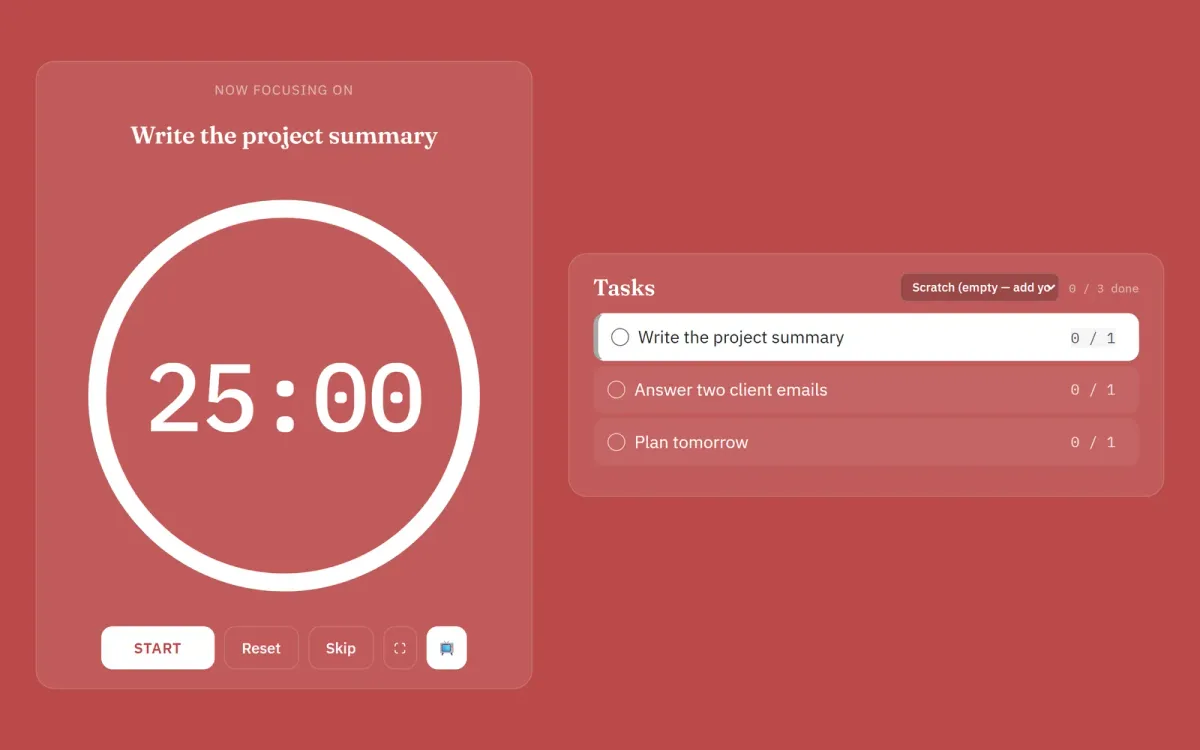
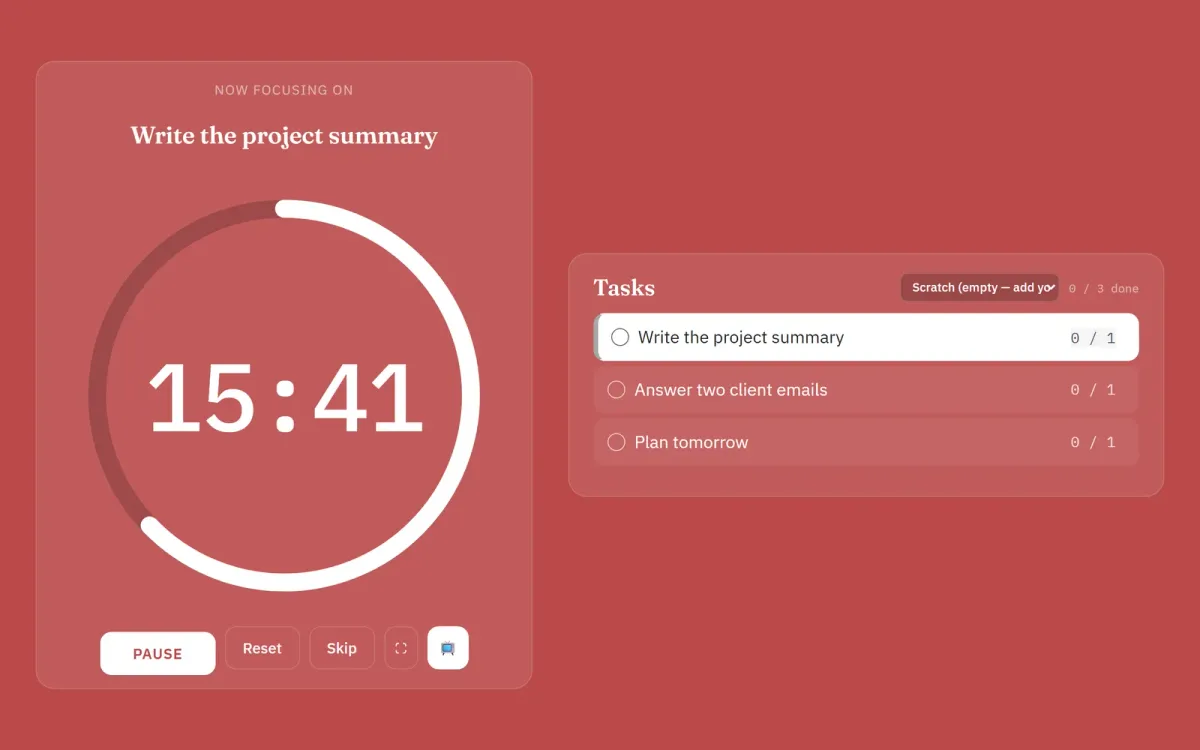
Rolling 3: real app captures + 7 new case studies (#36)
* Rolling 3: start

* Captures: Focus Desk's cast view with the timer running; Neuro's Work mode without Wikipedia's CSS leaking, the page check scrolled cleanly; alt text follows the new popup

* Focus Desk alt text: the time left in round minutes, so a re-shoot a second off stays true

* Case studies: Reddy.Mail, Cufflink, RAL Contrast Checker, Archive Trawler, Dekost, password.reddy.world and NIA

- pictures from inside each app: npm run shots for Reddy.Mail's demo, the RAL checker, Archive
  Trawler's search form and the password wizard; Cufflink's own window from its public repo;
  Dekost's chart, Ryan's screenshot (signed in)
- NIA: text only, no picture, stack or link (reddy.world#126); check-software lets a text-only
  case study pass

---------

diff --git a/src/content/software/reddy-mail.md b/src/content/software/reddy-mail.md
@@ -1,0 +1,53 @@
+---
+title: Reddy.Mail
+summary: "A private communications workspace: email, calendars and messaging channels in one place, with a public demo on a made-up studio's sample data."
+dek: Your conversations, with a little more context.
+eyebrow: Web app · mail.reddy.world
+kind: app
+category: CommunicationApplication
+platform: Web browser
+year: 2026
+status: Private workspace; the demo is open to everyone
+live: https://mail.reddy.world/demo/
+cta: Try the demo
+stack: [Google sign-in, Gemini API, WhatsApp Cloud API]
+audience: People who juggle several inboxes, calendars and chats
+maker: Reddy.World Enterprises
+role: "Concept, design and code: Ryan Reddy"
+order: 3
+updated: 2026-10-21
+screenshots:
+  - file: reddy-mail-cleanbox.webp
+    alt: "Reddy.Mail's demo on sample data: the Cleanbox with messages from three accounts on the left, and an opened message about poster proofs with a short summary, the action items found in it and the key date."
+    caption: "The Cleanbox in the demo: one list for every connected mailbox, and a message with its summary and action items. All of it is sample data."
+  - file: reddy-mail-socials.webp
+    alt: "The Socials & Berichten hub: Instagram, WhatsApp and Messenger messages in one list, an Instagram message from a bakery opened, and a suggested reply above the reply box."
+    caption: "Messages from WhatsApp, Instagram and Messenger in one list, with a suggested reply to edit or ignore."
+  - file: reddy-mail-my-day.webp
+    alt: "My Day: to-dos and calendar events in one list, filtered into bills to approve, replies owed, events to attend, dates to remember and personal to-dos, each with its due date."
+    caption: "My Day: the replies you owe, the bills to approve and the events to attend, from your mail and calendars."
+  - file: reddy-mail-publish.webp
+    alt: "Publish: posts written once for several channels, each marked as posted, waiting or scheduled, with tabs for posts, calendar, channels and stats."
+    caption: "Publish: write once, post to your channels now or at a set time."
+---
+
+Reddy.Mail brings connected email, calendars and messaging channels into one place, so you can focus on the conversation rather than where it happened. The workspace is private for now: only I can sign in. The [demo](https://mail.reddy.world/demo/) shows every screen on a made-up studio's sample data. It needs no sign-in, and nothing is sent or saved.
+
+## What you can do
+
+- Connect Gmail, Microsoft mail or an IMAP/SMTP mailbox through a setup wizard, and read them all in one Cleanbox.
+- Read WhatsApp, Instagram and Messenger messages in one list, next to your mail.
+- See your day in one place: the replies you owe, the bills to approve, the events to attend and the dates to remember.
+- See the calendars you chose in one view.
+- Write a post once and send it to Instagram, Facebook, a blog, Mastodon and the Fediverse, now or at a set time.
+- If you want, let Gemini summarise a message and prepare a draft for you to review.
+
+## The hard parts
+
+**Permission, step by step.** Signing in with Google only opens the app. Reading your mail and calendars needs a separate connection, with its own consent, for each account.
+
+**Private by design.** The workspace sits behind Google sign-in and a check on the server that you are its owner. The keys for each connection are encrypted before they are stored.
+
+**Honest about the edges.** WhatsApp comes in through the Cloud API, for a business number set up for it, and personal chats are not imported. The AI features are optional, and the site says plainly what goes to Google's Gemini API when you use them.
+
+**A demo that can't leak.** The demo runs entirely in your browser on invented people and messages, so anyone can try every screen without an account.

diff --git a/src/content/software/reddy-neuro.md b/src/content/software/reddy-neuro.md
@@ -18,7 +18,7 @@ audience: Readers who tire on busy, glaring pages
 maker: Reddy.World Enterprises
 role: "Concept, design and code: Ryan Reddy"
 order: 1
-updated: 2026-10-19
+updated: 2026-10-20
 screenshots:
   - file: neuro-overlay-after.webp
     pair: after
@@ -31,13 +31,13 @@ screenshots:
     alt: "The Wikipedia article on Atkinson Hyperlegible as Wikipedia shows it: black text on a white page with blue links, the contents on the left and the appearance settings on the right."
     caption: "The article as Wikipedia shows it, without NeuroOverlay."
   - file: neuro-overlay-work-mode.webp
-    alt: "NeuroOverlay's Work mode on the same article: the title, a dial with Gist, Key points, Structured (selected) and Full, the sections as short folded blocks, and a side column with next steps, the outline, tools (reading ruler, wait timers, read aloud) and the page score."
+    alt: "NeuroOverlay's Work mode on the same article: the title, a dial with Gist, Key points, Structured (selected) and Full, the sections as short folded blocks, and a side column with next steps, the outline and tools (reading ruler, wait timers)."
     caption: "Work mode, an early version: a quiet view of the page, with a dial for how much you see."
   - file: neuro-overlay-popup.webp
-    alt: "NeuroOverlay's popup on Wikipedia: on for en.wikipedia.org, a page score of 90 out of 100, sliders for Text (Comfortable), Colour (Dark), Clutter (fade 95%) and Focus, buttons for Work mode, Ruler and a wait timer, and the quick looks Calm, Night, Daylight and Dyslexia."
-    caption: "The popup: how much help you want, in four sliders."
+    alt: "NeuroOverlay's popup on Wikipedia: on for en.wikipedia.org, a dial for how much to show (Gist, Key points, Structured, Full) with Ruler and a wait timer, a page score of 90 out of 100, sliders for Text (Comfortable), Colour (Dark) and Clutter (fade 95%), and the quick looks Calm, Night, Daylight and Dyslexia."
+    caption: "The popup: how much to show, and how much help you want, in three sliders."
   - file: neuro-overlay-page-check.webp
-    alt: "The side panel's page check for the article: 90 out of 100 from its own checks, then five findings, from one long text block to lines of about 201 characters, each with a suggestion."
+    alt: "The side panel's page check for the article: 90 out of 100 from its own checks, how many of its COGA and W3C checks could run, then findings such as 7 paragraphs over 50 words and lines of about 208 characters, each with a suggestion and a link to the W3C pattern."
     caption: "The page check in the side panel: a quick look at how a page is built, not an official accessibility test."
 ---
 
@@ -47,7 +47,7 @@ I made it for people who tire quickly on glaring, cluttered pages, with ADHD in 
 
 ## What you can do
 
-- Set how much help you want with four sliders: Text, Colour, Clutter and Focus. Or pick a quick look: Calm, Night, Daylight or Dyslexia.
+- Set how much help you want with three sliders: Text, Colour and Clutter. Or pick a quick look: Calm, Night, Daylight or Dyslexia.
 - Choose the font (Atkinson Hyperlegible, Lexend Deca or OpenDyslexic), the line length, and the space between lines, letters and words.
 - Read in a soft dark theme such as Velvet Olive, or in a calm, paper-like light one.
 - Turn on a reading ruler, or set a wait timer of 30 seconds, 1 minute or 2 minutes.

diff --git a/src/content/software/password-reddy-world.md b/src/content/software/password-reddy-world.md
@@ -1,0 +1,43 @@
+---
+title: password.reddy.world
+summary: "A step-by-step plan for moving every password into one password manager, made for families. It never asks for a password, and the plan stays in your browser."
+dek: Every password in one safe home.
+eyebrow: Website · password.reddy.world
+kind: work
+year: 2026
+status: Live, free to use
+live: https://password.reddy.world
+cta: Make your plan
+audience: Households moving to one password manager
+maker: Reddy.World Enterprises
+role: "Concept, design and code: Ryan Reddy"
+order: 8
+updated: 2026-10-21
+screenshots:
+  - file: password-choose.webp
+    alt: "The first step, Start here: a table of password managers with what each is best for, the devices, where the data is kept, whether it's free and the paid plan. Bitwarden EU is selected and marked as recommended. On the right, 'Your plan so far' lists the nine steps."
+    caption: "Step one: choose a home for your passwords, with where each keeps your data."
+  - file: password-map.webp
+    alt: "The password map step: 'Where are passwords saved now?', with Chrome, Microsoft Edge, Firefox, Brave and Apple Passwords ticked, more browsers, password apps and other places folded away, and a note that the site never asks for password exports."
+    caption: "Where are your passwords now? Every browser and app ticked here becomes a place to move."
+  - file: password-way-in.webp
+    alt: "The 'Your way in' step: make sure you can always get back in. A passphrase written on paper, two-step login with its recovery code on the same paper, and how to log in on other devices, each with a guide and a box to tick."
+    caption: "Before anything moves: a way back in, on paper, at home."
+---
+
+password.reddy.world is a step-by-step plan for moving all your passwords into one password manager. It guides you, step by step, from choosing a manager to the final checks, and it is made for a household: the computers, phones and tablets everyone uses. [Make your plan at password.reddy.world](https://password.reddy.world).
+
+## What you can do
+
+- Compare password managers side by side: what each is best for, on which devices, where your data is kept, and what it costs. It recommends Bitwarden in its EU region, to keep your data under the GDPR.
+- Tick the devices you have used, and the browsers, apps and files where passwords are saved now. Each becomes a place to move.
+- Set up your way in before you move anything: a passphrase, two-step login and its recovery code, written on paper and kept at home.
+- Follow the plan to set up your computer and your phone, choose a backup, and finish with the final checks.
+
+## The hard parts
+
+**It never touches a password.** The site never asks for your passwords, your exports or your recovery codes. Exports are readable text, so they go straight into your chosen manager, not through this site.
+
+**A plan that stays with you.** Your plan is saved in your own browser. Open the page again in the same browser and you carry on where you left off.
+
+**The way back in comes first.** Bitwarden can't recover a forgotten master password, so the plan asks for your way in before any password moves.

diff --git a/src/content/software/cufflink.md b/src/content/software/cufflink.md
@@ -1,0 +1,47 @@
+---
+title: Cufflink
+summary: "A Windows app that reads the text you select aloud, in any program, and lights up each word as it goes. Fully offline: no account, nothing leaves your PC."
+dek: Select anything. Press a key. Hear it.
+eyebrow: Windows app · cufflink.reddy.world
+kind: app
+category: UtilitiesApplication
+platform: Windows 10 and 11
+year: 2026
+status: Free and open source
+live: https://cufflink.reddy.world
+cta: How to install
+repo: https://github.com/Ryan-Reddy/cufflink
+stack: [Python, Kokoro-82M, ONNX Runtime]
+audience: Anyone who would rather listen than read, or who proofreads by ear
+maker: Reddy.World Enterprises
+role: "Concept, design and code: Ryan Reddy"
+order: 4
+updated: 2026-10-21
+screenshots:
+  - file: cufflink-reading.webp
+    alt: "Cufflink's reading window: a sentence about reading a draft aloud, with the word 'repeated' lit, the words already read bright and the rest dim, and below it the speed (1.0×), repeat, pause, back, volume, select and help controls."
+    caption: "The reading window mid-sentence: the current word lit, the words already read bright, the rest dim."
+  - file: cufflink-voices.webp
+    alt: "Cufflink's voices window: a profile, two voices blended at 70% Emma and 30% Nicole, the speed at 1.30×, the sound read by The Informant, and dials for narrow, transistor, squash, tape, spy, fade, room and hiss."
+    caption: "The voices window: blend two speakers, then shape the sound with the dials."
+---
+
+Cufflink reads the text you select aloud, in any program on Windows, and lights up each word as it goes. Select some text in a browser, an email or a document, press Ctrl + Alt + M, and a small window appears straight away with the whole selection in it. It's free and open source. [Install it from cufflink.reddy.world](https://cufflink.reddy.world).
+
+These pictures are Cufflink's own window, from its [code on GitHub](https://github.com/Ryan-Reddy/cufflink).
+
+## What you can do
+
+- Pause by clicking the text. Change the speed and the volume, or let it read the same text again until you stop it.
+- Turn on select mode, and everything you select is read straight away.
+- Go back to the window you were reading from with one key.
+- Pick who reads to you: five voices, each with its own character. Or blend two speakers and shape the sound with eight dials, from tape flutter to hiss.
+- Let your own programs speak through it: while it runs, any program on the same computer can send it text to read.
+
+## The hard parts
+
+**The window comes first.** The reading window appears the moment you press the key, with the whole selection in it, rather than waiting for the first sound.
+
+**Speech on your own computer.** The voices are made by a small speech model on your PC, not by a cloud service. The installer downloads the model once and checks each file before keeping it. After that, reading aloud works with the internet switched off.
+
+**Out of the way when you don't need it.** The text you select is held in memory only while it is read, then forgotten. Select mode is the only part that listens to the mouse, and only while it is on.

diff --git a/src/content/software/ral-contrast-checker.md b/src/content/software/ral-contrast-checker.md
@@ -1,0 +1,43 @@
+---
+title: RAL Contrast Checker
+summary: "Pick two RAL colours and see them side by side, scored for physical accessibility (light reflectance) and for screens (WCAG contrast)."
+dek: Two RAL colours, scored for contrast.
+eyebrow: Web tool · reddy.world/ral-contrast-checker
+kind: app
+category: DesignApplication
+platform: Web browser
+year: 2023
+status: Live, free to use
+live: https://reddy.world/ral-contrast-checker
+cta: Open the checker
+stack: [JavaScript, Web Components]
+audience: Architects, sign makers and designers choosing colours for a building or an object
+maker: Reddy.World Enterprises
+role: "A 2023 team assignment at Hogeschool Utrecht for Stichting Accessibility; the checker as it runs today: Ryan Reddy"
+order: 5
+updated: 2026-10-21
+screenshots:
+  - file: ral-pass.webp
+    alt: "The RAL Contrast Checker with RAL 1023 Traffic yellow on RAL 9005 Jet black: a yellow block on a black field, LRV 4 and LRV 54, a difference of 50 that passes ΔLRV 30, and a WCAG contrast of 13.47 to 1."
+    caption: "Traffic yellow on jet black: a light reflectance difference of 50, well over the pass mark of 30."
+  - file: ral-fail.webp
+    alt: "The checker with RAL 7004 Signal grey on RAL 7035 Light grey: a grey block on a light grey field, LRV 57 and LRV 34, a difference of 23 marked as failing ΔLRV 30, and a WCAG contrast of 2.01 to 1, both badges in red."
+    caption: "Signal grey on light grey: a difference of 23 fails, and the screen contrast fails too."
+---
+
+The RAL Contrast Checker shows two RAL colours side by side and scores them for accessibility. Pick a background and an object or text colour, and you see the pair at once, with two numbers: the difference in light reflectance, for the real world, and the WCAG contrast ratio, for screens. [Open the checker](https://reddy.world/ral-contrast-checker).
+
+It started as a team assignment for Stichting Accessibility by students of Hogeschool Utrecht in 2023, and the team is credited on the checker's page. The colour data comes from that project.
+
+## What you can do
+
+- Choose from 180 RAL Classic colours, by number and name.
+- See the light reflectance value (LRV) of each colour and the difference between them, with a pass or fail against a difference of 30.
+- See the WCAG contrast ratio of the same pair, for when the colours are used on a screen.
+- Swap background and object with one button.
+
+## The hard parts
+
+**Two kinds of contrast.** On a screen, contrast is about light the screen gives off. On a wall, a door or a sign, it is about light the surface reflects. The checker shows both, and says which one applies where: a difference of 30 light reflectance points is the pass mark for physical accessibility, and the WCAG ratio is for on-screen use.
+
+**One checker, used everywhere.** It is a single web component with no dependencies and all 180 colours built in. Any page can load it with one line, and the page on reddy.world loads it live from that library.

diff --git a/src/content/software/dekost.md b/src/content/software/dekost.md
@@ -1,0 +1,40 @@
+---
+title: Dekost
+summary: "What does a gram of protein actually cost? Dekost ranks supermarket foods by protein per euro, on the Dutch RIVM NEVO and USDA food databases."
+dek: Supermarket food, ranked by protein per euro.
+eyebrow: Web app · dekost.eu
+kind: app
+category: HealthApplication
+platform: Web browser
+year: 2026
+status: Beta; you need an account to see it
+live: https://www.dekost.eu/
+cta: Open Dekost
+audience: People who eat for protein and shop on a budget
+maker: Reddy.World Enterprises
+role: "Concept, design and code: Ryan Reddy"
+order: 7
+updated: 2026-10-21
+screenshots:
+  - file: dekost-chart.webp
+    alt: "Dekost's chart: foods plotted by protein density against price per gram of protein, a table of foods on the left, and on the right the nutrition facts, the calorie split, the fullness factor and the supermarket price of tinned mackerel in oil, with its rankings below."
+    caption: "The chart, signed in: every food by protein density and price per gram of protein, with the facts of the one you pick. A screenshot Ryan took himself."
+---
+
+What does a gram of protein actually cost? Dekost answers that for the food in Dutch supermarkets. It ranks foods by protein per euro, and lets you filter and compare them in a table and on a chart. The nutrition data comes from the Dutch RIVM NEVO database (version 2025/9.0) and from USDA FoodData Central.
+
+Dekost is in beta, and you see it after signing in: with Google, Facebook, Microsoft or an email address. That's why this page shows a single picture, taken by me inside the app.
+
+## What you can do
+
+- Filter by kind of food: meat, fish, eggs and dairy, legumes, meat substitutes, seeds, nuts, vegetables, grains, mushrooms and fruit.
+- Plot the foods on a chart, by protein density against the price of a gram of protein.
+- Pick a food to see its nutrition facts, how its calories split between carbohydrate, fat and protein, how filling it is, and where to buy it for what price.
+- See where a food ranks among all the others.
+- Sign in to keep your profile and your food diaries in step across devices.
+
+## The hard parts
+
+**Price meets nutrition.** Dekost puts a supermarket price next to the nutrition data of each food, so the cost of a gram of protein can be compared across all of them.
+
+**Two databases, credited.** The nutrition data comes from the Dutch NEVO tables of the RIVM and from USDA FoodData Central, and both are credited at the foot of the page.

diff --git a/src/content/software/archive-trawler.md b/src/content/software/archive-trawler.md
@@ -1,0 +1,38 @@
+---
+title: Archive Trawler
+summary: "Find your ancestors by searching many archives at once, by name: more than 200 Dutch archives through OpenArchieven.nl, the UK National Archives and Europeana."
+dek: One search across many archives.
+eyebrow: Web app · archivetrawler.reddy.world
+kind: app
+category: ReferenceApplication
+platform: Web browser
+year: 2022
+status: Live; searching needs a free account
+live: https://archivetrawler.reddy.world
+cta: Open Archive Trawler
+stack: [Java]
+audience: People looking for their ancestors in Dutch and other archives
+maker: Reddy.World Enterprises
+role: "My first-year IPASS project at Hogeschool Utrecht: Ryan Reddy"
+order: 6
+updated: 2026-10-21
+screenshots:
+  - file: archive-trawler-search.webp
+    alt: "Archive Trawler's search form, in Dutch: fields for keywords, surname (Visser), name prefix, first name (Johanna) and the years 1850 to 1920, and below them the archives to search, with Archief van Amsterdam ticked."
+    caption: "The search form, with an example name typed in: who, which years, and which archives to search. The search itself needs a free account."
+---
+
+Archive Trawler searches many archives at once by name, so you don't have to go through each archive on its own. I made it as my first-year IPASS project at Hogeschool Utrecht, in Java. It runs at [archivetrawler.reddy.world](https://archivetrawler.reddy.world). The first visit after a quiet spell takes up to a minute while the server wakes up.
+
+## What you can do
+
+- Search by surname, name prefix, first name and keywords, between two years.
+- Choose which archives to search, and search them all in one go.
+- Search more than 200 Dutch archives through OpenArchieven.nl, among them Stadsarchief Amsterdam, Nationaal Archief, Gelders Archief and AlleFriezen, and filter by place, period, kind of record and role.
+- Also search the UK National Archives (Discovery) and Europeana's photos and objects.
+
+## How it works
+
+**Many archives, one question.** You fill in the form once and tick the archives you want. Archive Trawler searches them at the same time, by name, so you don't have to visit each one.
+
+**A Dutch name in three parts.** The form asks for the prefix, such as "van" or "de", in its own field, next to the surname and the first name.

diff --git a/src/content/software/focus-desk.md b/src/content/software/focus-desk.md
@@ -14,19 +14,19 @@ audience: Anyone who works in focus blocks
 maker: Reddy.World Enterprises
 role: "Concept, design and code: Ryan Reddy"
 order: 2
-updated: 2026-10-17
+updated: 2026-10-20
 screenshots:
   - file: focus-desk-three-sessions.webp
-    alt: "Three Focus Desk screens side by side in fullscreen. A red focus session on 'Write the project summary' with 15:40 left, a teal short break with 02:51 left, and a blue long break with 12:51 left. Each ring shows the time remaining."
+    alt: "Three Focus Desk screens side by side in fullscreen. A red focus session on 'Write the project summary' with about 16 minutes left, a teal short break with about 3, and a blue long break with about 13. Each ring shows the time remaining."
     caption: "Focus, short break, long break: the whole screen takes the colour of the session."
   - file: focus-desk-running.webp
-    alt: "Focus Desk during a focus session: the timer at 15:42 with a Pause button, 'Now focusing on: Write the project summary', a task list with three tasks, and panels for noise, YouTube and SoundCloud below."
+    alt: "Focus Desk during a focus session: the timer at about 16 minutes left, with a Pause button, 'Now focusing on: Write the project summary', a task list with three tasks, and panels for noise, YouTube and SoundCloud below."
     caption: "A focus session nine minutes in, with the task list and the sound panels. The tasks are examples."
   - file: focus-desk-cast-view.webp
-    alt: "Focus Desk's cast view at 1280 by 800: a large 25:00 timer on the left and the three tasks on the right, with the settings and sound panels hidden."
+    alt: "Focus Desk's cast view at 1280 by 800: a running timer at about 16 minutes on the left and the three tasks on the right, with the settings and sound panels hidden."
     caption: "Cast view for a 1280 × 800 wall display: just the timer and the tasks."
   - file: focus-desk-phone.webp
-    alt: "Focus Desk on a phone during a focus session: the ring at 15:42 with Pause, Reset and Skip buttons, and the task list below."
+    alt: "Focus Desk on a phone during a focus session: the ring at about 16 minutes left, with Pause, Reset and Skip buttons, and the task list below."
     caption: "On a phone, mid-session."
 ---
 

diff --git a/src/content/software/nia.md b/src/content/software/nia.md
@@ -1,0 +1,17 @@
+---
+title: NIA
+summary: "My graduation internship as a software engineer on NIA, a voice-first reflection tool, July 2025 to April 2026. Together with the team, I designed its base."
+dek: My graduation internship as a software engineer.
+eyebrow: Graduation internship · 2025–2026
+kind: work
+year: 2025
+status: Finished
+role: "Software engineer (graduation internship)"
+when: July 2025 – April 2026
+order: 20
+updated: 2026-10-21
+---
+
+For my graduation internship I worked as a software engineer on NIA, a voice-first reflection tool, from July 2025 to April 2026. Together with the team, I designed the base of it: speech in and out, an expressive animated avatar, and safe AI feedback, with privacy first.
+
+NIA is not my app. It was a paid assignment, so there are no pictures or technical details here. If you want to know more about the work I did, [ask me](https://reddy.world/contact).
